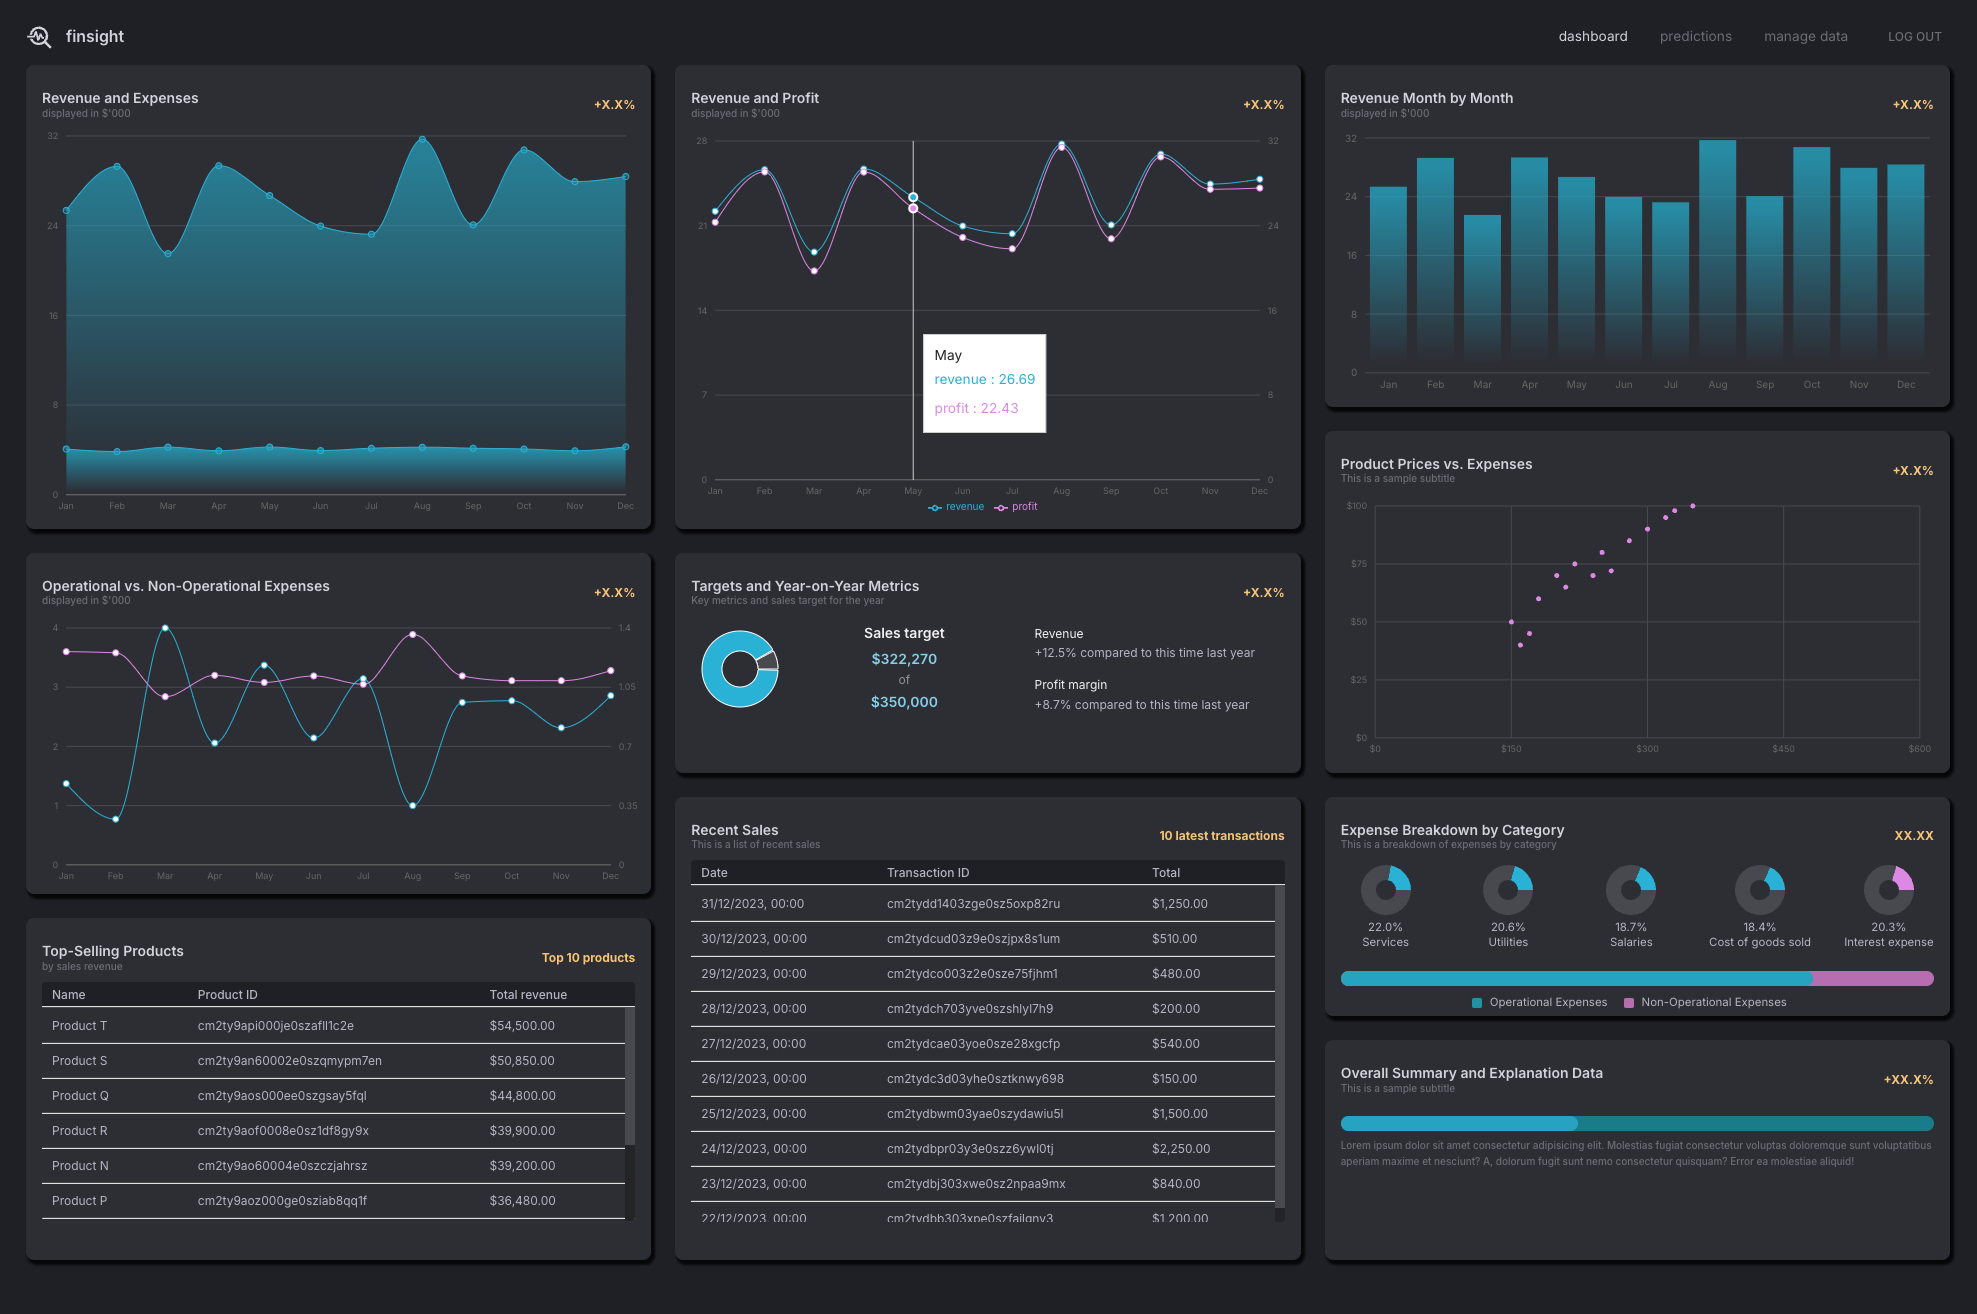
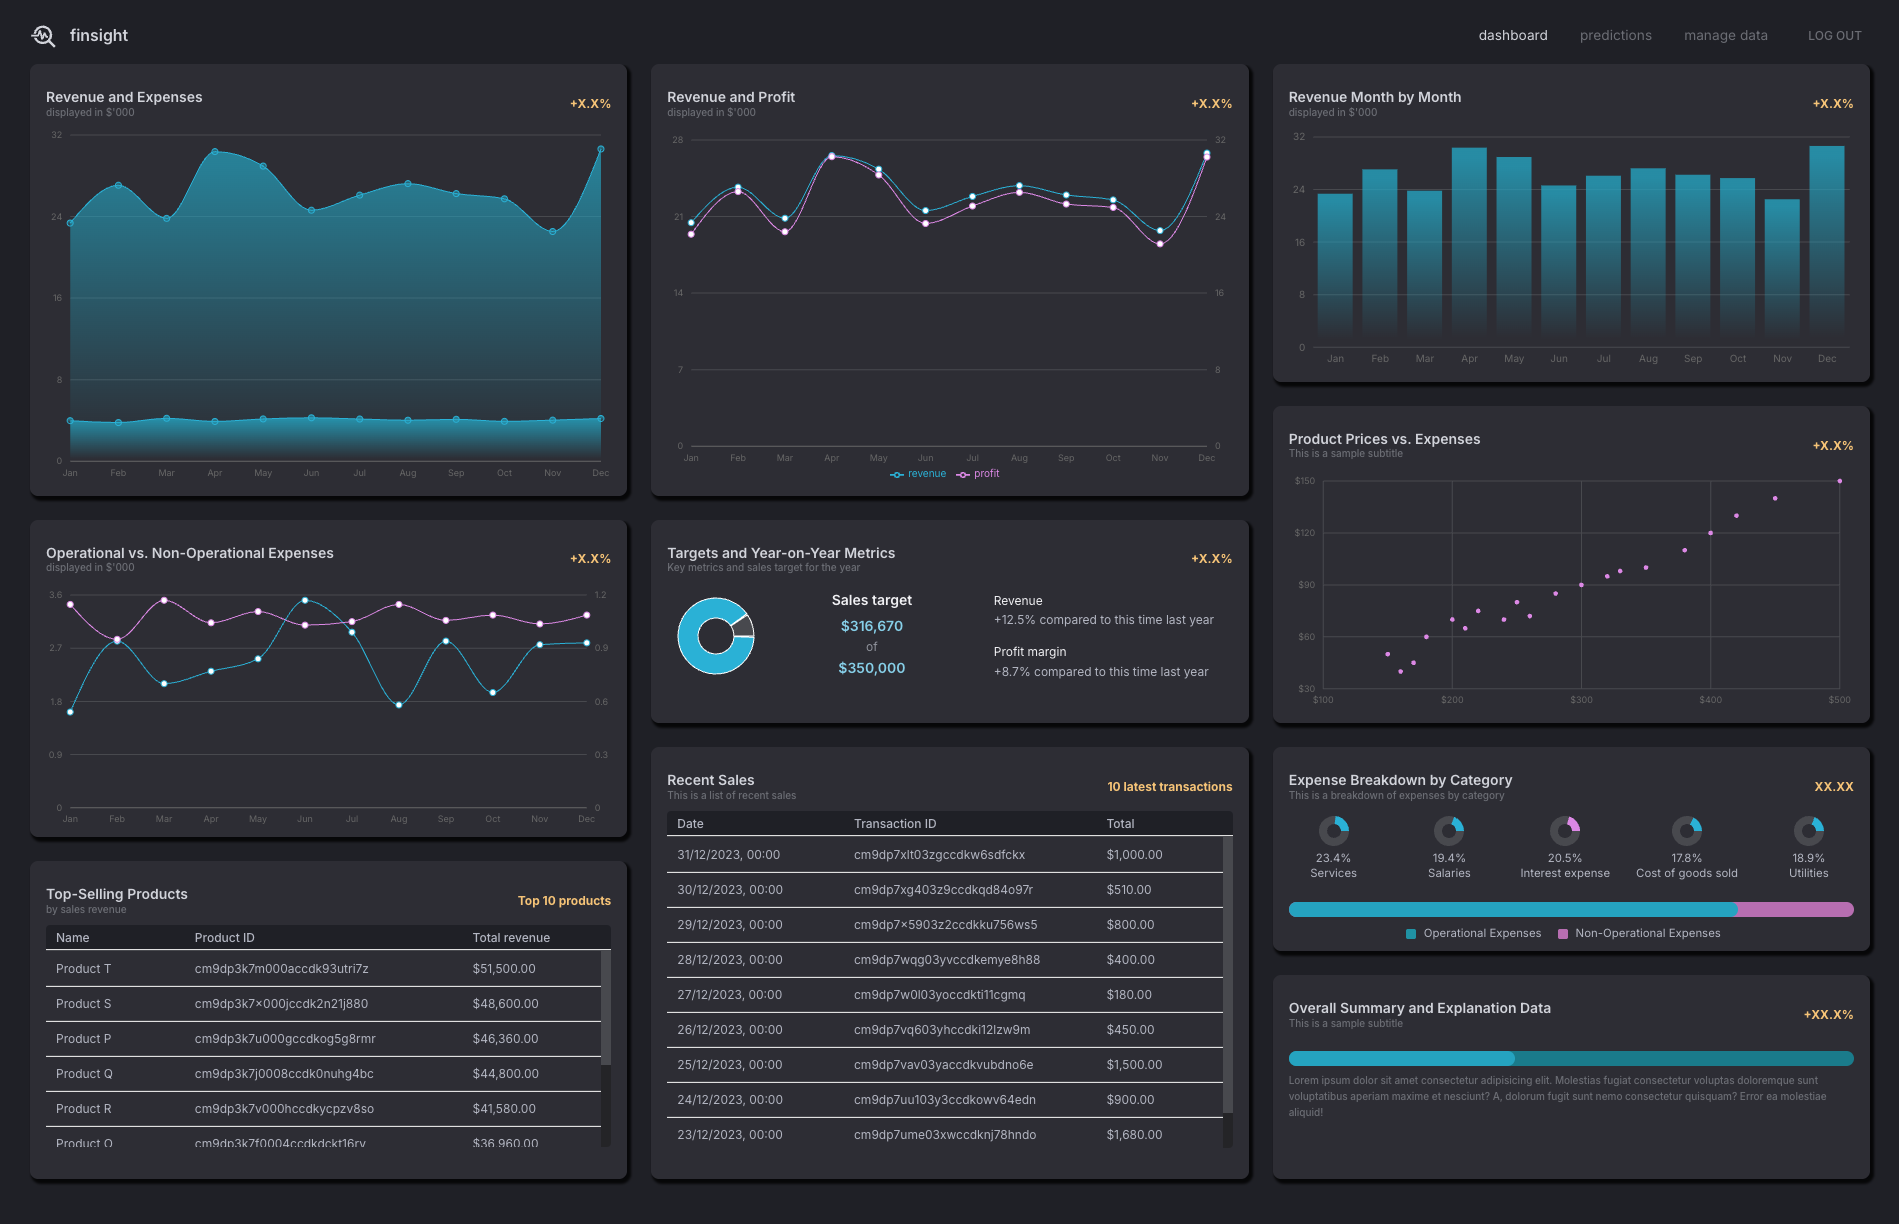
fix Product Prices vs. Expenses tile and update screenshot

diff --git a/finsight-ui/src/pages/dashboard/Row2.tsx b/finsight-ui/src/pages/dashboard/Row2.tsx
@@ -42,16 +42,17 @@ const Row2: React.FC<Row2Props> = ({ kpiYear }) => {
 
     const productPricesExpenses = useMemo(() => {
         return (
-            productData &&
-            productData.products.map(({ id, price, expense }) => {
-                return {
-                    id: id,
-                    price: (price / 100).toFixed(2), // Denomination: $
-                    expense: (expense / 100).toFixed(2) // Denomination: $
-                };
-            })
+          productData &&
+          productData.products.map(({ id, description, price, expense }) => {
+            return {
+              id,
+              description,
+              price: Number((price / 100).toFixed(2)),  // Denomination: $
+              expense: Number((expense / 100).toFixed(2))  // Denomination: $
+            };
+          })
         );
-    }, [productData]);
+      }, [productData]);
 
     return (
         <>
@@ -172,6 +173,7 @@ const Row2: React.FC<Row2Props> = ({ kpiYear }) => {
                             type="number"
                             dataKey="price"
                             name="price"
+                            domain={['auto', 'auto']}
                             axisLine={false}
                             tickLine={false}
                             style={{ fontSize: "9px" }}
@@ -181,13 +183,17 @@ const Row2: React.FC<Row2Props> = ({ kpiYear }) => {
                             type="number"
                             dataKey="expense"
                             name="expense"
+                            domain={['auto', 'auto']}
                             axisLine={false}
                             tickLine={false}
                             style={{ fontSize: "9px" }}
                             tickFormatter={(v) => `$${v}`}
                         />
-                        <ZAxis type="number" range={[20]} />
-                        <Tooltip cursor={{ strokeDasharray: "3 3" }} formatter={(v) => `${v}`} />
+                        <ZAxis type="number" range={[17]} />
+                        <Tooltip
+                            cursor={{ strokeDasharray: "3 3" }}
+                            formatter={(value, name) => [`$${value}`, name]}
+                        />
                         <Scatter name="Product Expense Ratio" data={productPricesExpenses} fill={palette.tertiary[500]} />
                     </ScatterChart>
                 </ResponsiveContainer>
